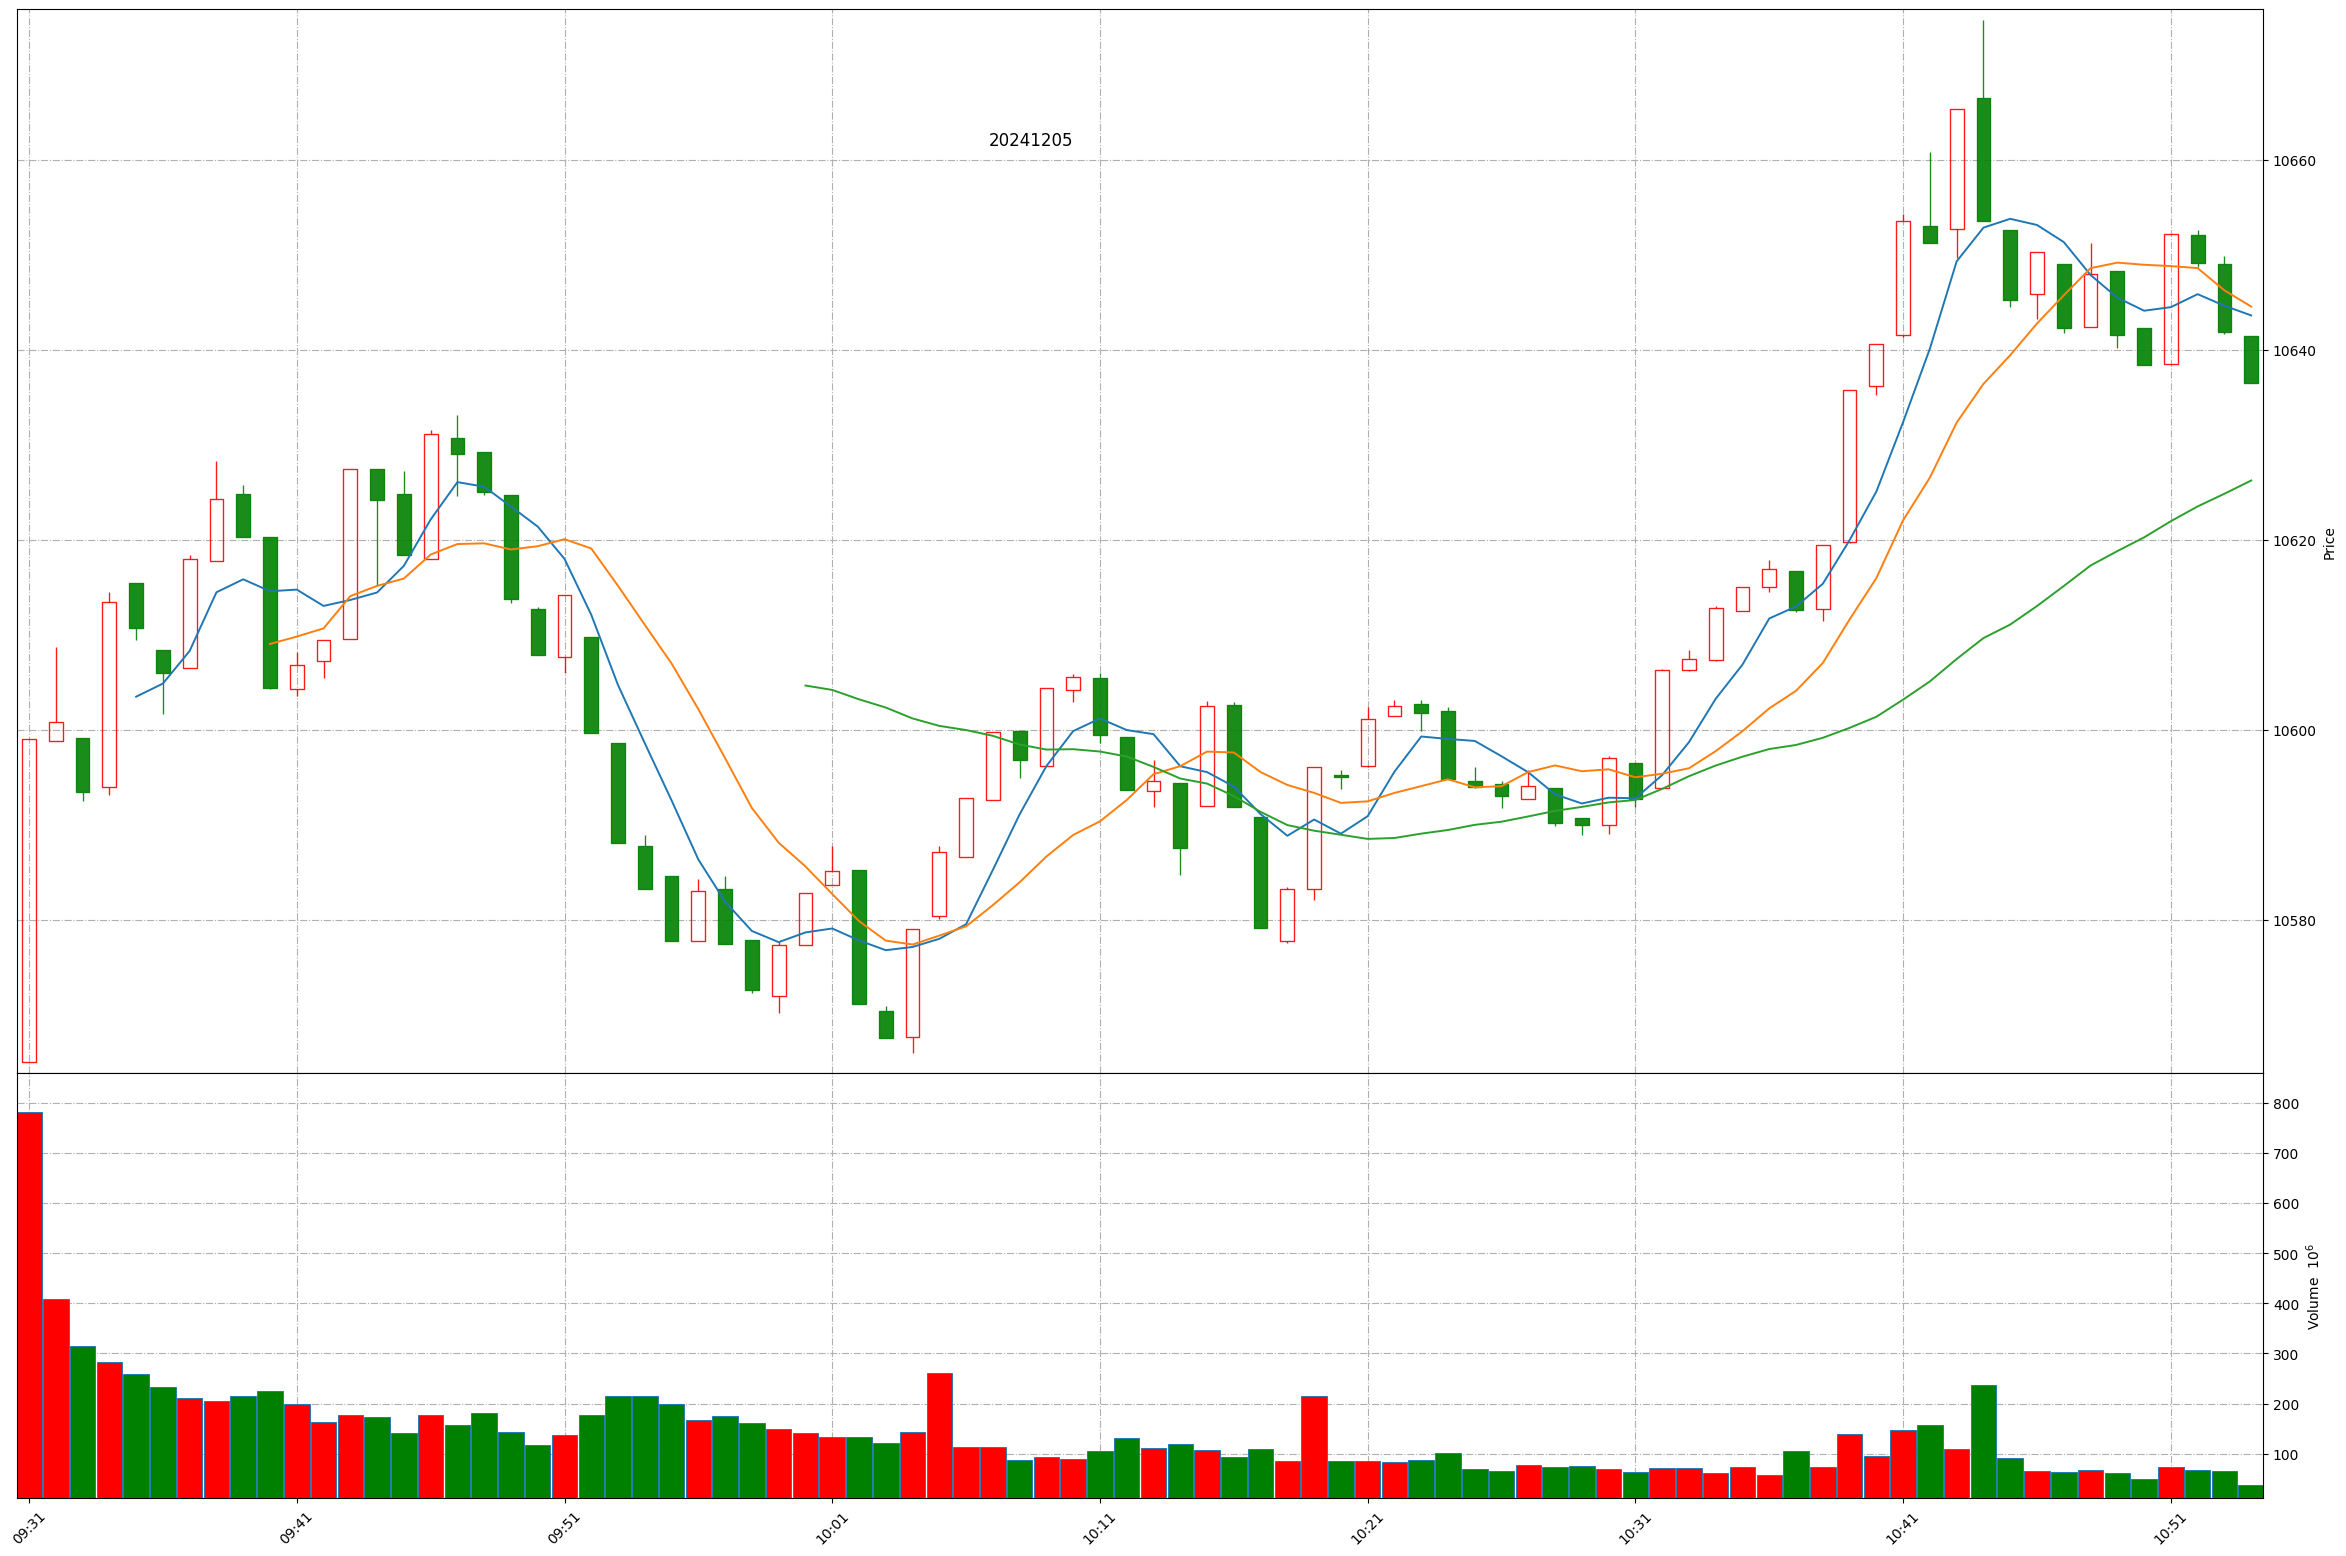
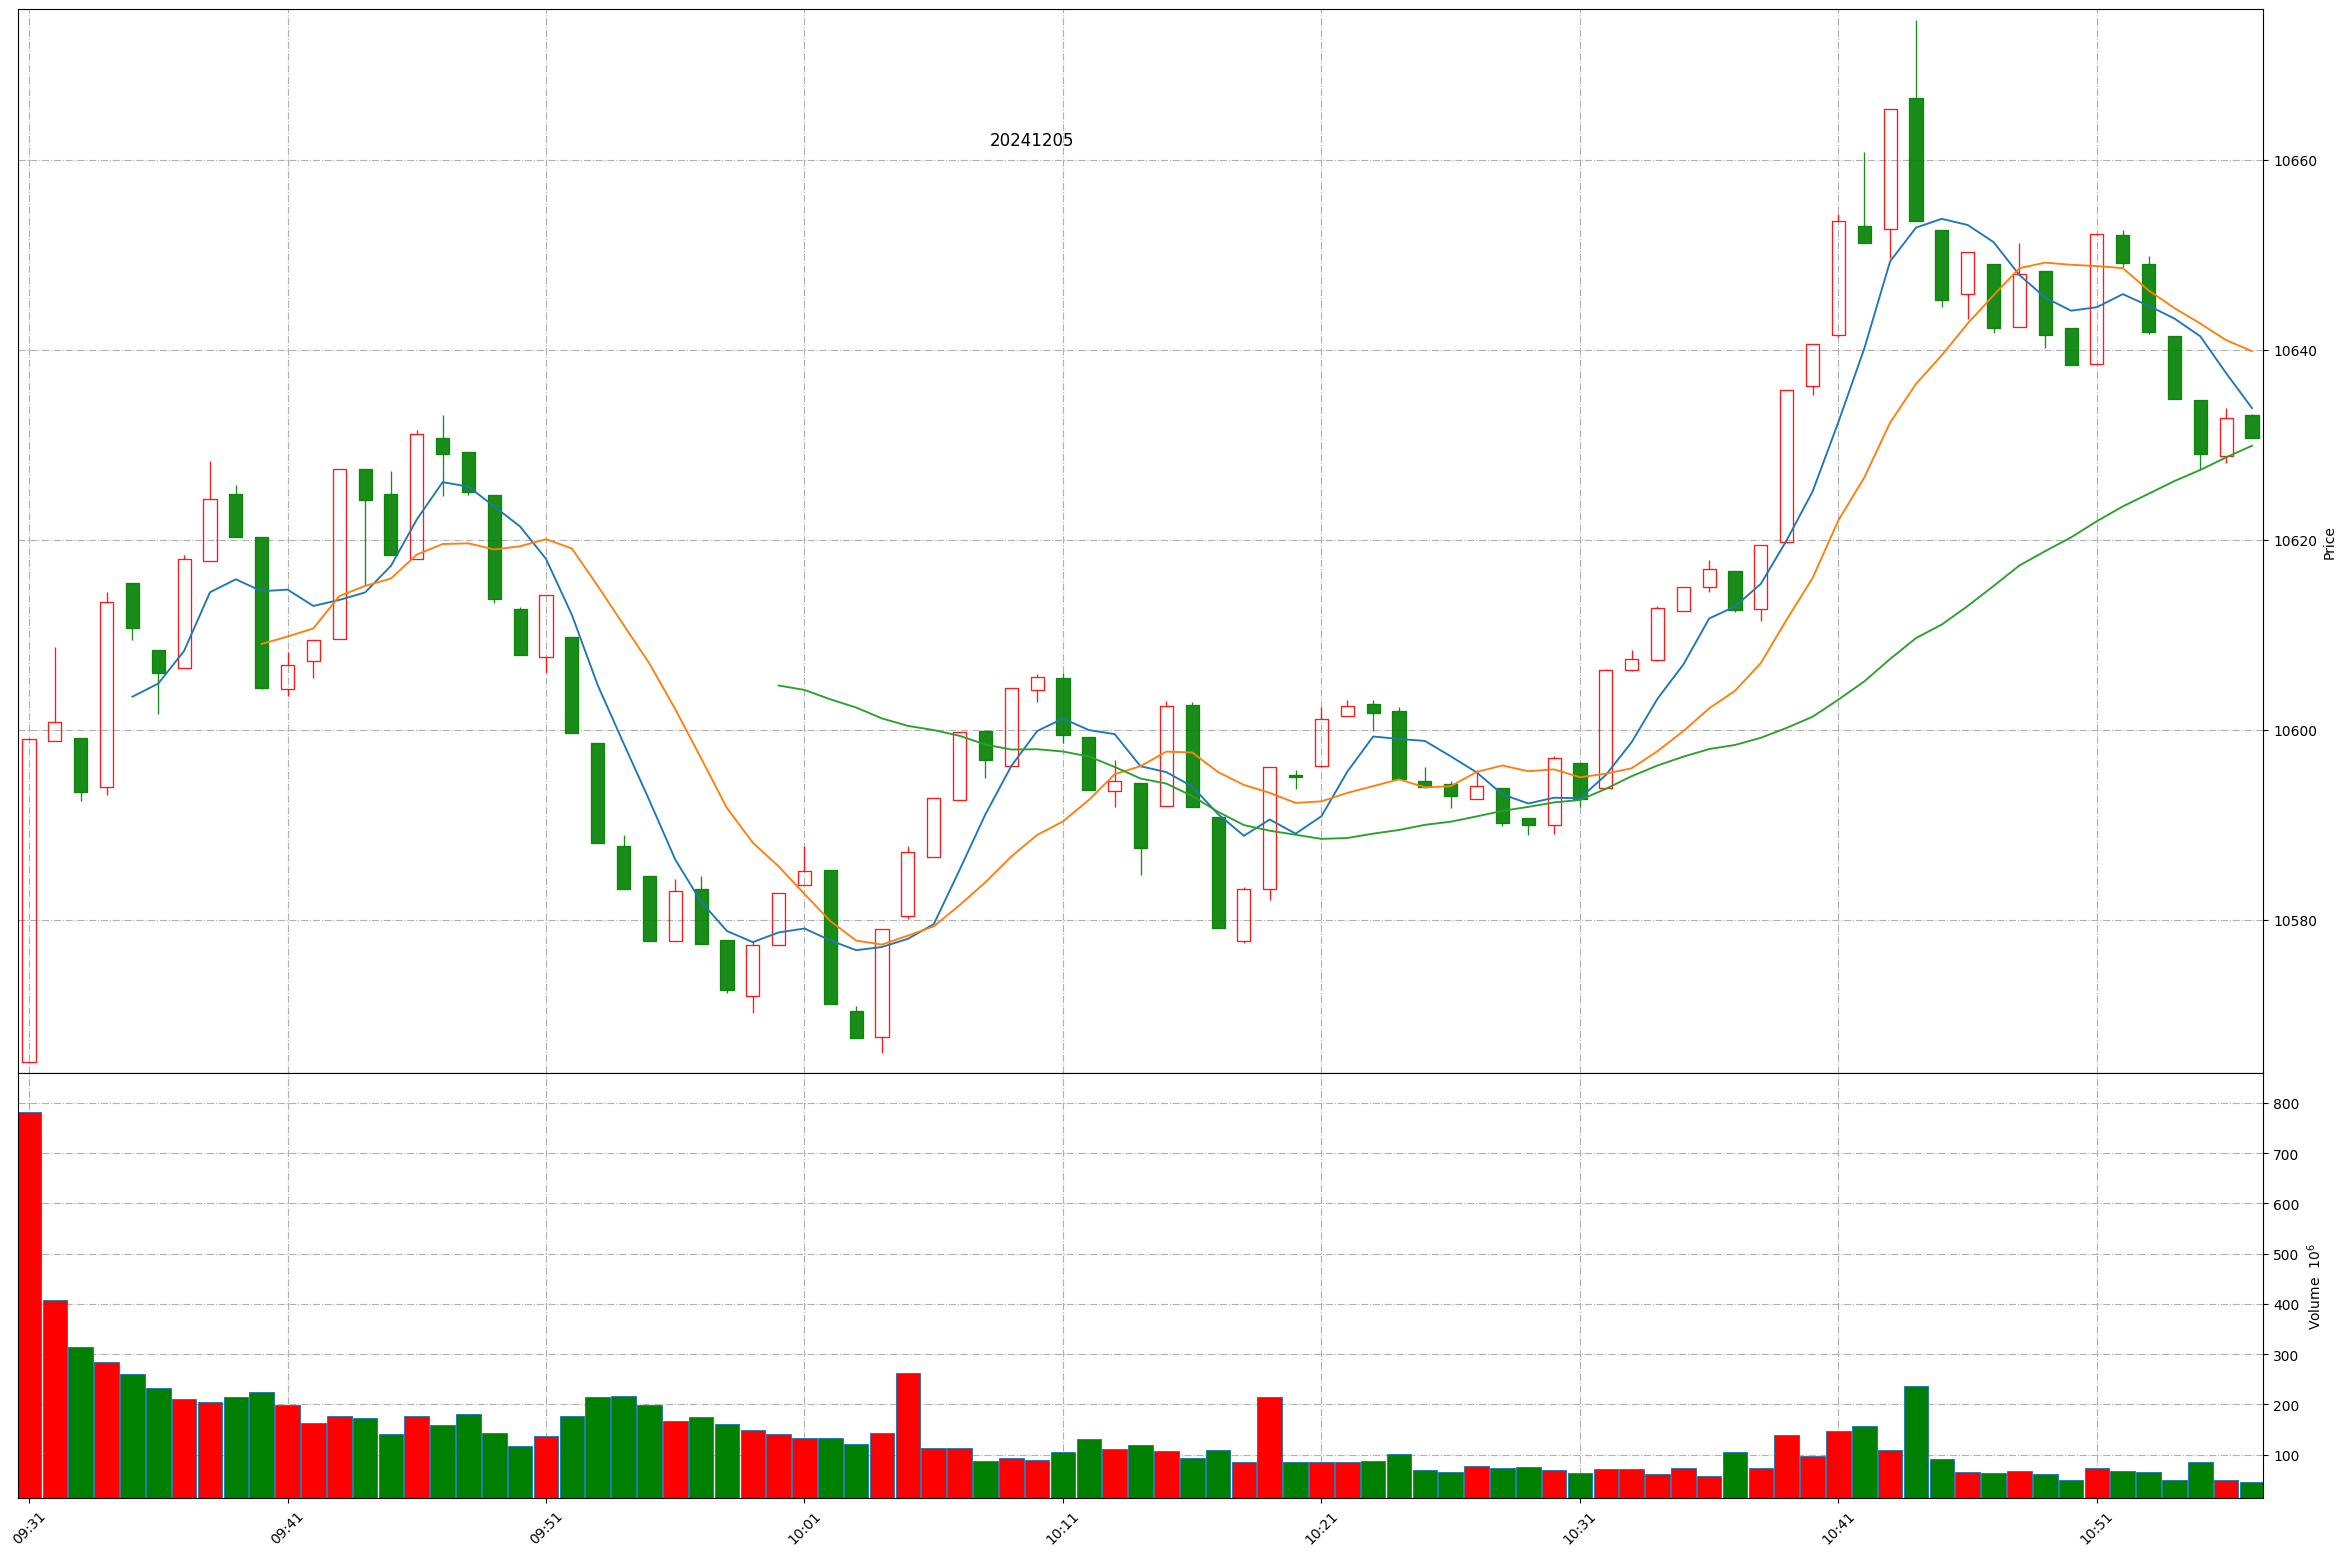
Github action update at 2024-12-05 10:57:10.

Changed region(s): [[0.0311, 0.0617, 0.9646, 0.6787], [0.0, 0.8329, 0.9646, 0.9871], [0.3423, 0.4319, 0.3734, 0.4627]]

diff --git a/README.md b/README.md
@@ -1,11 +1,11 @@
 
 # Daily-A-share-market-quotes 每日 A 股指数（5min 更新）- 20241205
 
-### 上证指数 20241205 10:53
+### 上证指数 20241205 10:57
 ![](./fig/2024/12/20241205-sh000001.png)
 
-### 深证成指 20241205 10:53
+### 深证成指 20241205 10:57
 ![](./fig/2024/12/20241205-sz399001.png)
 
-### 北证50 20241205 10:53
+### 北证50 20241205 10:57
 ![](./fig/2024/12/20241205-bj899050.png)
